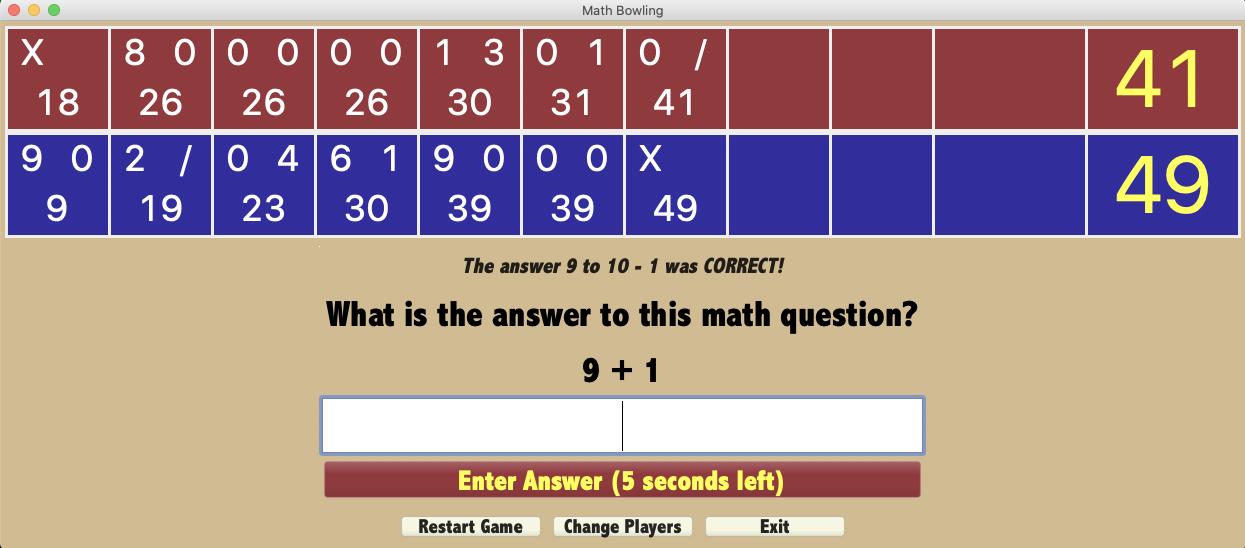
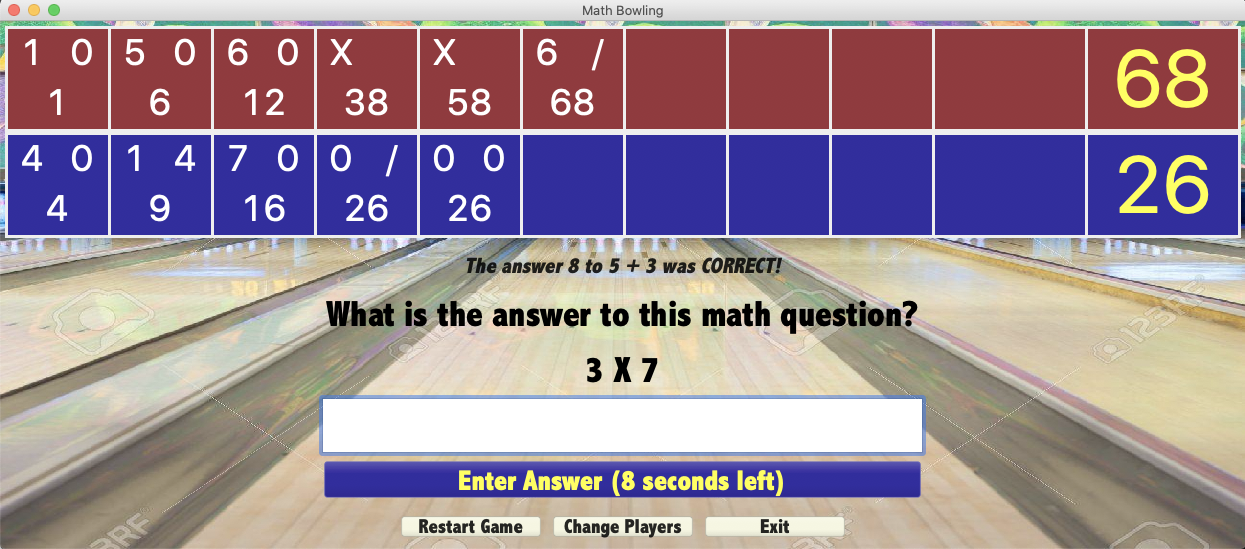
Upgraded to Glimmer 0.4.3 / refactored colors / added background image

diff --git a/app/views/math_bowling/game_view.rb b/app/views/math_bowling/game_view.rb
@@ -5,6 +5,7 @@ require_relative 'gif_image'
 
 module MathBowling
   class GameView
+    FILE_PATH_IMAGE_BACKGROUND = "../../../../images/math-bowling-background.jpg"
     FILE_PATH_IMAGE_CORRECT = "../../../../images/bowling-strike1.gif"
     FILE_PATH_IMAGE_WRONG = "../../../../images/bowling-miss1.gif"
     FILE_PATH_IMAGE_CLOSE = "../../../../images/bowling-spare1.gif"
@@ -99,9 +100,22 @@ module MathBowling
       @font = CONFIG[:font].merge(height: 36)
       @font_button = CONFIG[:font].merge(height: 28)
       @game_container = shell(:no_resize) {
-        @background = rgb(206, 177, 128)
-        @foreground = :color_black
+        @background = :transparent
+        @foreground = :black
         text "Math Bowling"
+
+        on_paint_control {
+          # Doing on paint control to use calculated shell size
+          unless @game_container.widget.getBackgroundImage
+            image_data = ImageData.new(File.expand_path(FILE_PATH_IMAGE_BACKGROUND, __FILE__))
+            image_data = image_data.scaledTo(@game_container.widget.getSize.x, @game_container.widget.getSize.y)
+            @background_image = Image.new(@display, image_data)
+            add_contents(@game_container) {
+              background_image @background_image
+            }
+          end
+        }
+
         composite {
           MathBowling::ScoreBoardView.new(@game_container, @game).render
           background @background
@@ -155,8 +169,8 @@ module MathBowling
                   height 42
                 }
                 font @font_button
-                background bind(self, :player_color, computed_by: ["game.current_player.index"])
-                foreground :color_yellow
+                background bind(self, :player_color, computed_by: "game.current_player.index")
+                foreground :yellow
                 enabled bind(@game, :in_progress?, computed_by: 10.times.map {|index| "current_player.score_sheet.frames[#{index}].rolls"})
                 on_widget_selected {
                   @game.roll

diff --git a/app/views/math_bowling/score_board_view.rb b/app/views/math_bowling/score_board_view.rb
@@ -16,7 +16,7 @@ module MathBowling
     def render
       @content = composite {
         fill_layout :vertical
-        background :color_transparent
+        background :transparent
         @game.player_count.times.map do |player_index|
           composite {
             row_layout {
@@ -33,7 +33,7 @@ module MathBowling
             @red = rgb(138, 31, 41)
             @blue = rgb(31, 26, 150)
             @background = player_index % 2 == 0 ? @red : @blue
-            @foreground = :color_yellow
+            @foreground = :yellow
             composite {
               row_layout {
                 type :horizontal

diff --git a/app/views/math_bowling/app_view.rb b/app/views/math_bowling/app_view.rb
@@ -57,7 +57,7 @@ module MathBowling
           composite {
             fill_layout :horizontal
             layout_data :center, :center, true, true
-            background :color_transparent
+            background :transparent
             @initially_focused_widget = button {
               text "1 Player"
               font CONFIG[:font]

diff --git a/app/views/math_bowling/frame_view.rb b/app/views/math_bowling/frame_view.rb
@@ -16,7 +16,7 @@ module MathBowling
       @red = rgb(138, 31, 41)
       @blue = rgb(31, 26, 150)
       @background = player_index % 2 == 0 ? @red : @blue
-      @foreground = :color_white
+      @foreground = :white
       @font = CONFIG[:scoreboard_font].merge(height: 36)
     end
 
